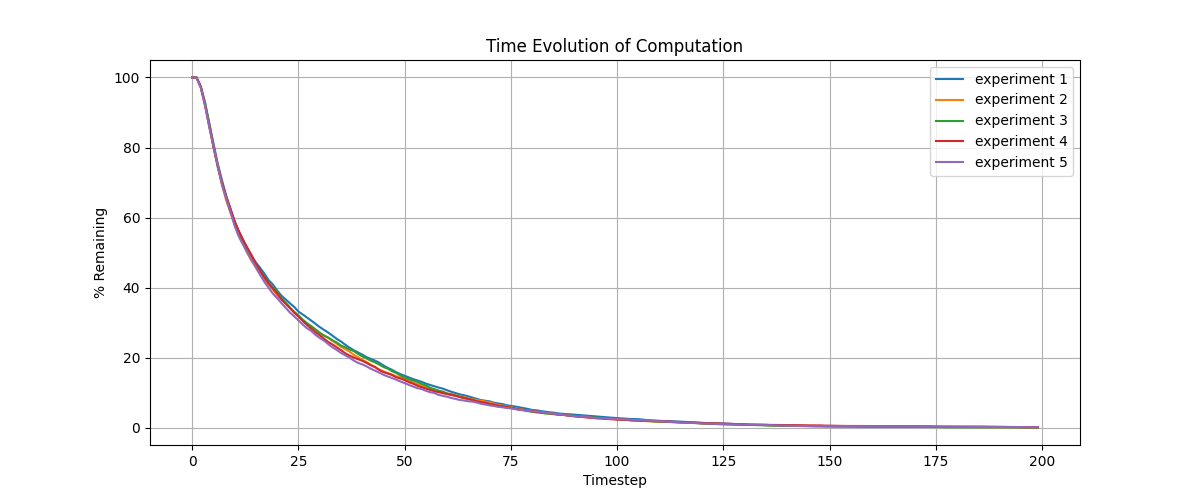
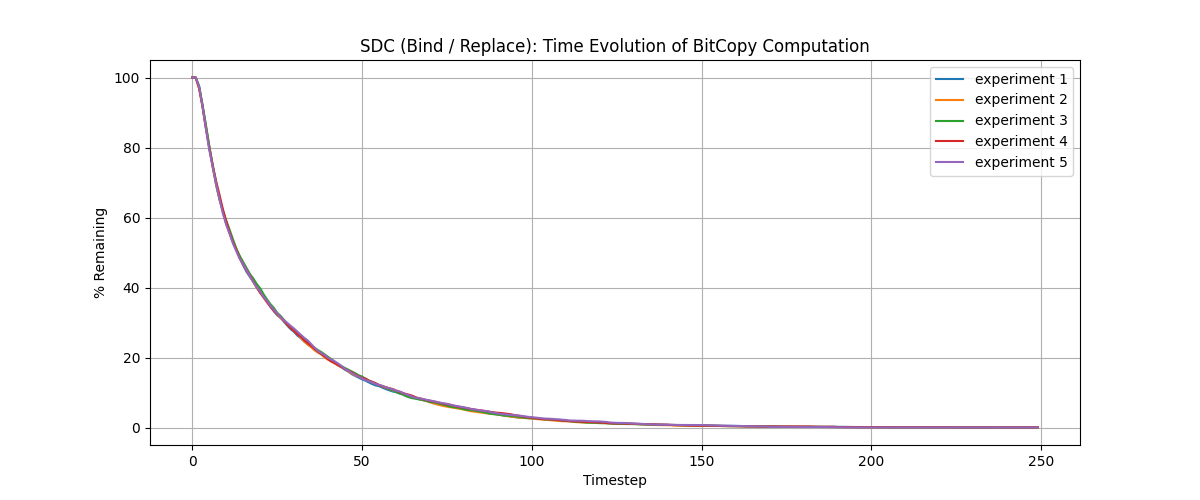
some further housekeeping

diff --git a/src/experiments/sdc/bind_replace/__init__.py b/src/experiments/sdc/bind_replace/__init__.py
@@ -76,18 +76,16 @@ def print_result(count: int, total: int) -> None:
     print()
 
 
-def plot_results(iters: int, total: int, timesteps: int, data: Dict, field: str, group: str, name: str) -> None:
+def plot_results(iters: int, total: int, timesteps: int, data: Dict, title: str, field: str, group: str, name: str) -> None:
     plt.subplots(figsize = (12, 5))
-    plt.title("Time Evolution of Computation")
+    plt.title(title)
     plt.grid(True)
     plt.xlabel("Timestep")
     plt.ylabel("% Remaining")
-
     for i in range(iters):
         y = [((total - count) / total) * 100 for count in data["STATS"][i]]
         x = [timestep for timestep in range(timesteps)]
         plt.plot(x, y, label = f"experiment {i + 1}")
-
     plt.legend()
     plt.savefig(f"./output/experiments/{field}/{group}/{name}/experiment.png")
     plt.close()

diff --git a/src/experiments/sdc/bind_replace/bitcopy/experiment.py b/src/experiments/sdc/bind_replace/bitcopy/experiment.py
@@ -6,15 +6,15 @@ from experiments.sdc.bind_replace.bitcopy import ANCHOR, TILES, SOLUTION
 
 
 SCAFFOLDS = 5000
-TIMESTEPS = 200
+TIMESTEPS = 250
 
 def main() -> None:
     print("\n")
-    print("\tA Simulation of Scaffolded DNA Computer - Bind / Replace: Bitcopy")
+    print("\tA Simulation of Scaffolded DNA Computer (Bind / Replace) - Bitcopy")
     print("\n")
 
     iters = int(sys.argv[1]) if len(sys.argv) > 1 else 5
     data  = SDCBindReplaceSimulation(SCAFFOLDS, ANCHOR, TILES, SOLUTION).run(iters, TIMESTEPS)
 
     print_results(iters, SCAFFOLDS, data)
-    plot_results(iters, SCAFFOLDS, TIMESTEPS, data, "sdc", "bind_replace", "bitcopy")
+    plot_results(iters, SCAFFOLDS, TIMESTEPS, data, "SDC (Bind / Replace): Time Evolution of BitCopy Computation", "sdc", "bind_replace", "bitcopy")

diff --git a/src/experiments/sdc/bind_replace/parity/experiment.py b/src/experiments/sdc/bind_replace/parity/experiment.py
@@ -6,15 +6,15 @@ from experiments.sdc.bind_replace.parity import ANCHOR, TILES, SOLUTION
 
 
 SCAFFOLDS = 5000
-TIMESTEPS = 200
+TIMESTEPS = 250
 
 def main() -> None:
     print("\n")
-    print("\tA Simulation of Scaffolded DNA Computer - Bind / Replace: Parity")
+    print("\tA Simulation of Scaffolded DNA Computer (Bind / Replace) - Parity")
     print("\n")
 
     iters = int(sys.argv[1]) if len(sys.argv) > 1 else 5
     data  = SDCBindReplaceSimulation(SCAFFOLDS, ANCHOR, TILES, SOLUTION).run(iters, TIMESTEPS)
 
     print_results(iters, SCAFFOLDS, data)
-    plot_results(iters, SCAFFOLDS, TIMESTEPS, data, "sdc", "bind_replace", "parity")
+    plot_results(iters, SCAFFOLDS, TIMESTEPS, data, "SDC (Bind / Replace): Time Evolution of Parity Computation", "sdc", "bind_replace", "parity")
